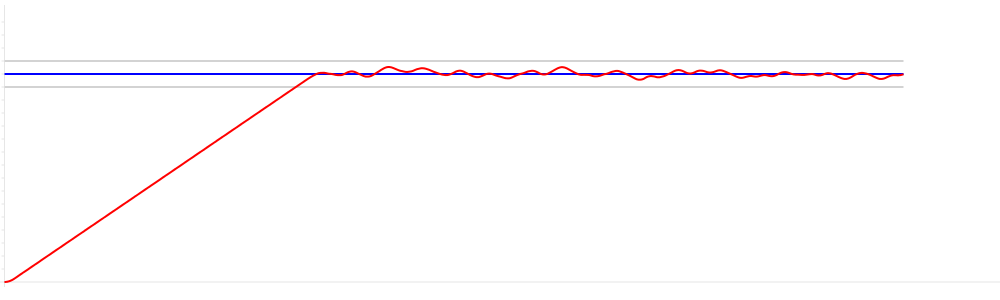
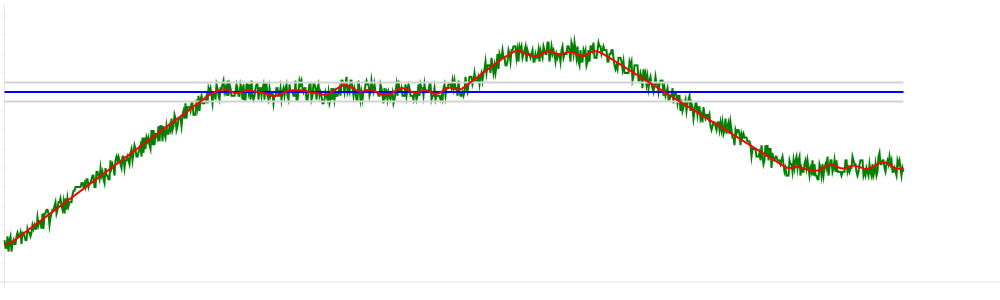
sim improvements

diff --git a/sims/thrustModel.js b/sims/thrustModel.js
@@ -16,12 +16,13 @@ exports.Model = function () {
      * Max vertical speed in cm/s
      * @type {number}
      */
-    this.verticalSpeed = 40;
+    this.verticalSpeed = 60;
 
     this.targetAltitude = 0; //[cm]
     this.currentAltitude = 0;
     this.currentSpeed = 0;
     this.altitudes = [];
+    this.alitudesFromSensor = [];
     this.speeds = [];
 
     this.currentOutput = 0;
@@ -51,6 +52,7 @@ exports.Model = function () {
         this.currentAltitude = current;
         this.currentSpeed = 0;
         this.altitudes = [];
+        this.alitudesFromSensor = [];
         this.speeds = [];
 
         this.currentOutput = 0;
@@ -90,7 +92,9 @@ exports.Model = function () {
 
     this.run = function () {
 
-        var controllerOutput = this.controller.run(this.targetAltitude, this.addNoiseToAltitude(this.currentAltitude));
+        var computedAlitude = this.addNoiseToAltitude(this.currentAltitude);
+
+        var controllerOutput = this.controller.run(this.targetAltitude, computedAlitude);
 
         this.pushOutput(controllerOutput);
 
@@ -107,6 +111,7 @@ exports.Model = function () {
         this.currentAltitude = this.currentAltitude + this.currentSpeed - ((this.currentSpeed - this.speedInertias.average()) * this.delayFactor);
 
         this.pushInertia(this.currentSpeed);
+        this.alitudesFromSensor.push(Math.round(computedAlitude * 10) / 10);
         this.altitudes.push(Math.round(this.currentAltitude * 10) / 10);
         this.speeds.push(Math.round(this.currentSpeed * 10) / 10);
 

diff --git a/sims/sim.js b/sims/sim.js
@@ -26,15 +26,16 @@ m.altitudeError = 50;
  * Run model for given number of iterations
  */
 for(i = 0; i < 900; i++) {
-    // if (i === 450) {
-    //     m.targetAltitude = 500;
-    // }
+    if (i === 450) {
+        m.targetAltitude = 500;
+    }
+
+    if (i === 600) {
+        m.targetAltitude = 200;
+    }
 
     m.run();
 }
-
-// console.log("Outputs", m.outputs);
-//console.log("Altitudes", m.altitudes);
 
 var Canvas = require('canvas')
     , canvas = new Canvas(1000, 300)
@@ -62,6 +63,10 @@ for (i = 0; i < length; i++) {
 Chart(ctx).Line({
     labels: labels,
     datasets: [
+        {
+            data: m.alitudesFromSensor,
+            strokeColor: "green"
+        }, 
         {
             data: line,
             strokeColor: "blue"

diff --git a/sims/thrustController.js b/sims/thrustController.js
@@ -71,14 +71,12 @@ exports.Controller = function () {
             delta,
             future;
 
-        if (this.inputs.length == this.inputLength) {
+        if (this.inputs.length > 0) {
             delta = current - this.inputs[0];
             future = current + delta;
             retVal = this.Kd * (target - future);
         }
-
-        console.log(retVal);
-
+        
         return retVal;
     };
 
